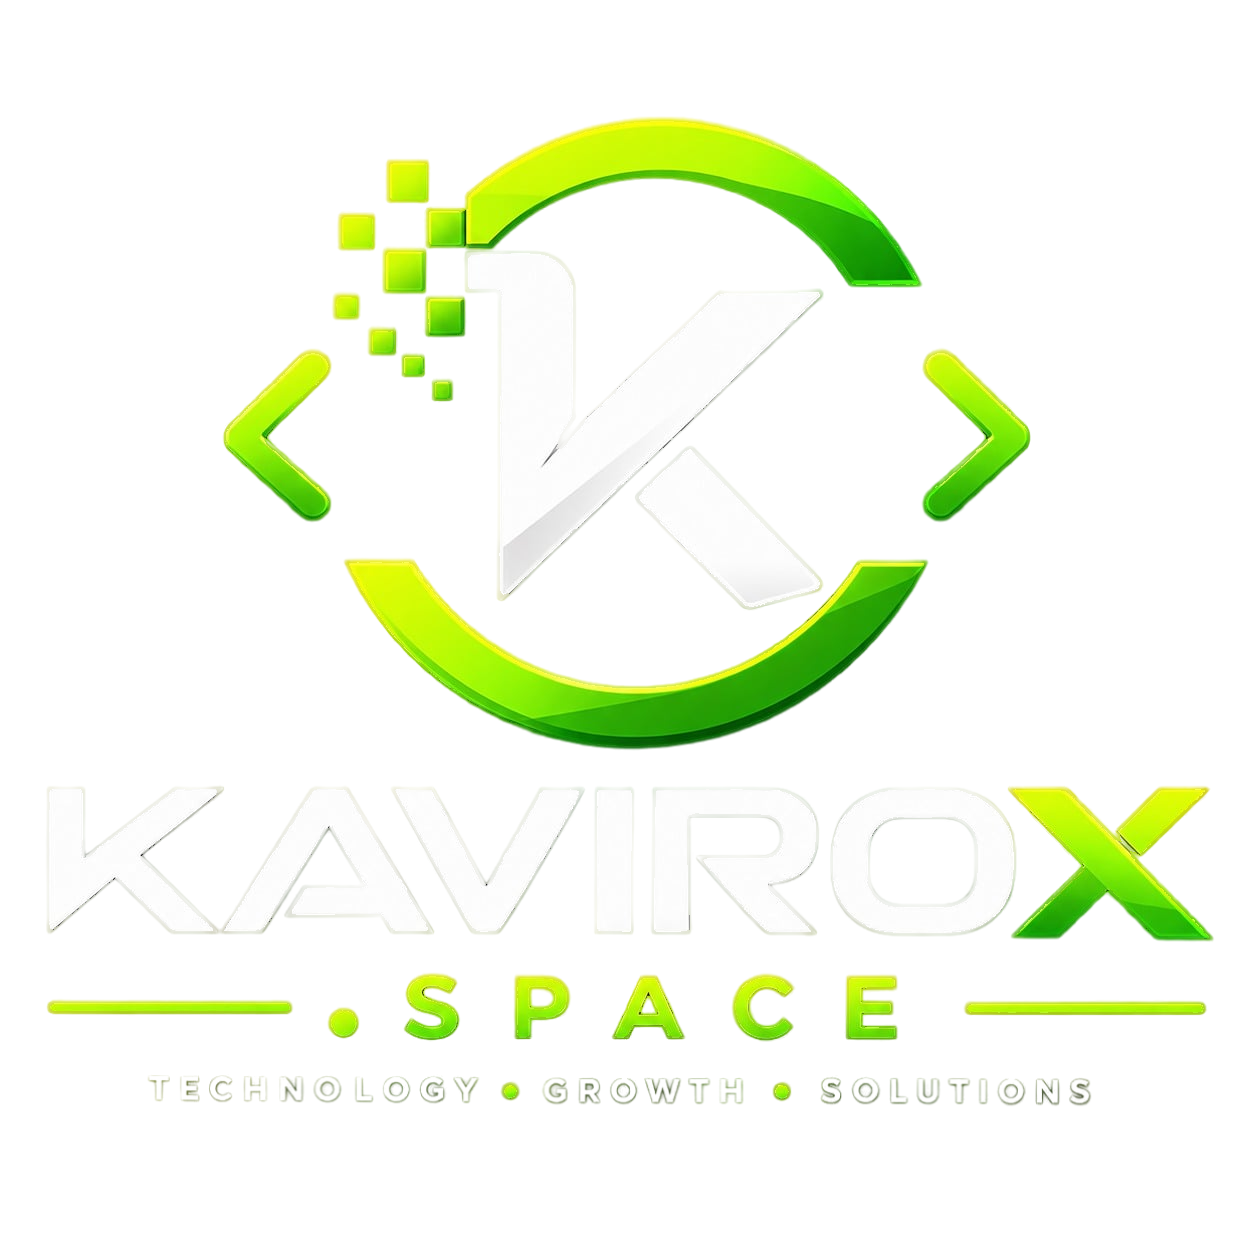
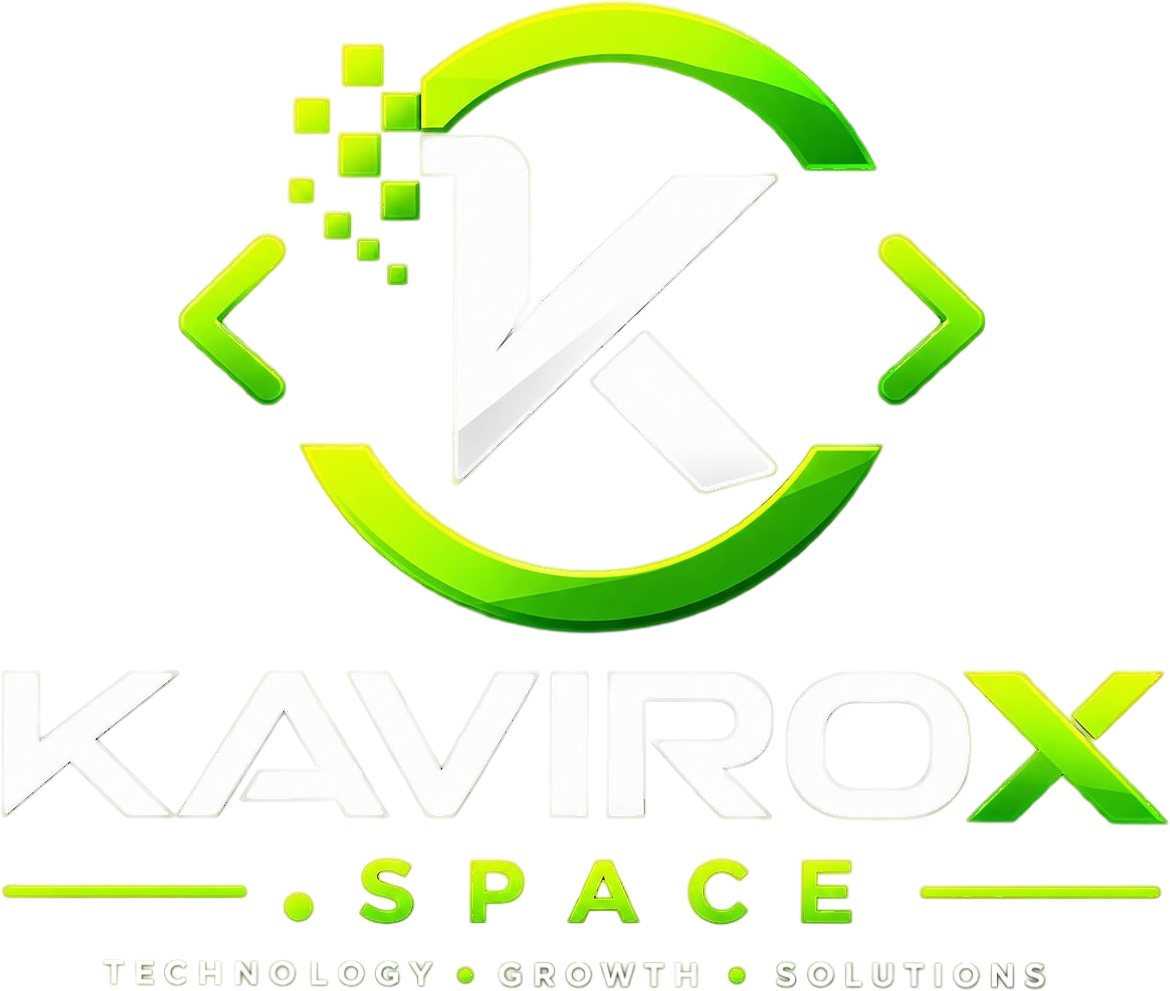
feat(ui): add ultra-sharp transparent KAVIROX emblem, upgrade Let's Connect button with cyber gradient and shimmer sweep animation

diff --git a/index.html b/index.html
@@ -7,9 +7,9 @@
   <meta name="description" content="KAVIROX (kavirox.space) delivers AI/ML, Cybersecurity, Secure Systems, Web/Product Engineering, and complete digital growth solutions.">
   <meta name="theme-color" content="#020503">
   <meta name="referrer" content="strict-origin-when-cross-origin">
-  <link rel="icon" type="image/png" href="assets/kavirox_bg.png">
-  <link rel="shortcut icon" type="image/png" href="assets/kavirox_bg.png">
-  <link rel="apple-touch-icon" href="assets/kavirox_bg.png">
+  <link rel="icon" type="image/png" href="assets/kavirox_emblem.png">
+  <link rel="shortcut icon" type="image/png" href="assets/kavirox_emblem.png">
+  <link rel="apple-touch-icon" href="assets/kavirox_emblem.png">
 
   <!-- Google Fonts -->
   <link rel="preconnect" href="https://fonts.googleapis.com">
@@ -51,19 +51,32 @@
       max-width: 320px;
     }
     .preloader-logo {
-      font-family: 'Space Grotesk', system-ui, -apple-system, sans-serif;
-      font-size: 1.85rem;
-      font-weight: 800;
-      letter-spacing: 0.12em;
-      color: #e5f9f0;
       display: flex;
+      flex-direction: column;
       align-items: center;
-      gap: 0.5rem;
+      justify-content: center;
+      gap: 0.85rem;
     }
-    .preloader-logo span {
-      color: #52f2b1;
-      text-shadow: 0 0 12px rgba(82, 242, 177, 0.6);
-      font-family: 'JetBrains Mono', monospace;
+    .preloader-logo-img {
+      height: 68px;
+      width: 68px;
+      object-fit: contain;
+      background: transparent !important;
+      border-radius: 0 !important;
+      filter: drop-shadow(0 0 18px rgba(0, 255, 136, 0.85)) drop-shadow(0 0 35px rgba(0, 255, 136, 0.45));
+      animation: preloaderLogoPulse 2s ease-in-out infinite alternate;
+    }
+    .preloader-logo-text {
+      font-family: 'Space Grotesk', system-ui, -apple-system, sans-serif;
+      font-size: 1.5rem;
+      font-weight: 800;
+      letter-spacing: 0.1em;
+      color: #ffffff;
+      text-shadow: 0 0 16px rgba(0, 255, 136, 0.5);
+    }
+    @keyframes preloaderLogoPulse {
+      0% { transform: scale(0.97); filter: drop-shadow(0 0 12px rgba(0, 255, 136, 0.6)); }
+      100% { transform: scale(1.04); filter: drop-shadow(0 0 24px rgba(0, 255, 136, 1)) drop-shadow(0 0 45px rgba(0, 255, 136, 0.6)); }
     }
     .preloader-bar-bg {
       width: 100%;
@@ -113,16 +126,16 @@
   </style>
 
   <!-- Stylesheet -->
-  <link rel="stylesheet" href="style.css?v=3.2">
+  <link rel="stylesheet" href="style.css?v=3.3">
 </head>
 <body>
 
   <!-- Loading Screen (Preloader with 0 to 100% Counting) -->
   <div id="site-preloader">
     <div class="preloader-box">
-      <div class="preloader-logo" style="display: flex; flex-direction: column; align-items: center; justify-content: center; gap: 0.85rem; font-size: 1.5rem; font-weight: 800; color: #fff; letter-spacing: 0.08em;">
-        <img src="assets/kavirox_bg.png" alt="KAVIROX" class="preloader-logo-img">
-        <span style="font-family: var(--font-heading); text-shadow: 0 0 16px rgba(0,255,136,0.5);">KAVIROX</span>
+      <div class="preloader-logo">
+        <img src="assets/kavirox_emblem.png" alt="KAVIROX" class="preloader-logo-img">
+        <span class="preloader-logo-text">KAVIROX</span>
       </div>
       <div class="preloader-bar-bg">
         <div class="preloader-bar-fill" id="preloader-fill"></div>
@@ -141,7 +154,7 @@
   <header id="header" class="site-header">
     <div class="container header-container">
       <a href="#home" class="logo" id="logo-link">
-        <img src="assets/kavirox_bg.png" alt="KAVIROX Logo" class="navbar-logo-img">
+        <img src="assets/kavirox_emblem.png" alt="KAVIROX" class="navbar-logo-img">
         <span class="logo-text">KAVIROX</span>
       </a>
 
@@ -178,7 +191,10 @@
           <i class="fa-solid fa-moon icon-moon"></i>
         </button>
 
-        <a href="#contact" class="btn btn-primary nav-cta" data-translate="btn_get_touch">Let's Connect</a>
+        <a href="#contact" class="btn btn-primary nav-cta">
+          <span data-translate="btn_get_touch">Let's Connect</span>
+          <i class="fa-solid fa-arrow-right-long nav-cta-icon"></i>
+        </a>
 
         <!-- Mobile Menu Toggle Button -->
         <button class="mobile-menu-toggle" id="mobile-menu-toggle" aria-label="Toggle Navigation">

diff --git a/style.css b/style.css
@@ -228,28 +228,33 @@ a { color: inherit; text-decoration: none; }
 }
 
 /* ═══════════════════════════════════════════════
-   BUTTONS (CRISP SOLID DARK TEXT FIX)
+   ULTRA-PREMIUM BUTTONS & CYBER ANIMATIONS
    ═══════════════════════════════════════════════ */
 .btn {
   display: inline-flex;
   align-items: center;
   justify-content: center;
-  gap: 0.6rem;
+  gap: 0.65rem;
   font-family: var(--font-heading);
   font-weight: 700;
-  font-size: 0.95rem;
-  padding: 0.8rem 1.75rem;
+  font-size: 0.92rem;
+  padding: 0.75rem 1.65rem;
   border-radius: var(--radius-md);
   border: 1px solid transparent;
   cursor: pointer;
-  transition: all var(--transition-fast);
+  position: relative;
+  overflow: hidden;
+  text-decoration: none;
   white-space: nowrap;
+  transition: all 0.35s cubic-bezier(0.16, 1, 0.3, 1);
+  z-index: 1;
 }
 
 .btn-primary {
-  background: var(--accent);
+  background: linear-gradient(135deg, #00ff88 0%, #05df75 50%, #00b359 100%);
   color: #020503 !important;
-  box-shadow: 0 0 22px var(--accent-glow);
+  border: 1px solid rgba(255, 255, 255, 0.4);
+  box-shadow: 0 0 22px rgba(0, 255, 136, 0.45), inset 0 1px 1px rgba(255, 255, 255, 0.7);
 }
 
 .btn-primary *,
@@ -260,10 +265,58 @@ a { color: inherit; text-decoration: none; }
   font-weight: 700;
 }
 
+.btn-primary::before {
+  content: '';
+  position: absolute;
+  top: -60%;
+  left: -70%;
+  width: 45%;
+  height: 220%;
+  background: linear-gradient(
+    90deg,
+    transparent 0%,
+    rgba(255, 255, 255, 0.65) 50%,
+    transparent 100%
+  );
+  transform: rotate(25deg);
+  pointer-events: none;
+  animation: btnShimmerSweep 3.2s infinite cubic-bezier(0.4, 0, 0.2, 1);
+  z-index: 2;
+}
+
+@keyframes btnShimmerSweep {
+  0% { left: -70%; opacity: 0; }
+  10% { opacity: 1; }
+  35% { left: 140%; opacity: 1; }
+  36% { opacity: 0; }
+  100% { left: 140%; opacity: 0; }
+}
+
 .btn-primary:hover {
-  background: var(--accent-light);
-  transform: translateY(-2px);
-  box-shadow: 0 0 32px var(--accent-glow);
+  background: linear-gradient(135deg, #33ff9e 0%, #00ff88 50%, #00cc66 100%);
+  transform: translateY(-2px) scale(1.03);
+  box-shadow: 0 0 32px rgba(0, 255, 136, 0.8), 0 8px 24px rgba(0, 0, 0, 0.4);
+}
+
+.btn-primary:active {
+  transform: translateY(0px) scale(0.99);
+}
+
+.nav-cta {
+  padding: 0.65rem 1.45rem;
+  font-size: 0.88rem;
+  border-radius: var(--radius-full);
+  box-shadow: 0 0 20px rgba(0, 255, 136, 0.55), inset 0 1px 1px rgba(255, 255, 255, 0.8);
+  letter-spacing: 0.02em;
+}
+
+.nav-cta-icon {
+  font-size: 0.8rem;
+  transition: transform 0.3s cubic-bezier(0.16, 1, 0.3, 1);
+}
+
+.nav-cta:hover .nav-cta-icon {
+  transform: translateX(4px);
 }
 
 .btn-secondary {
